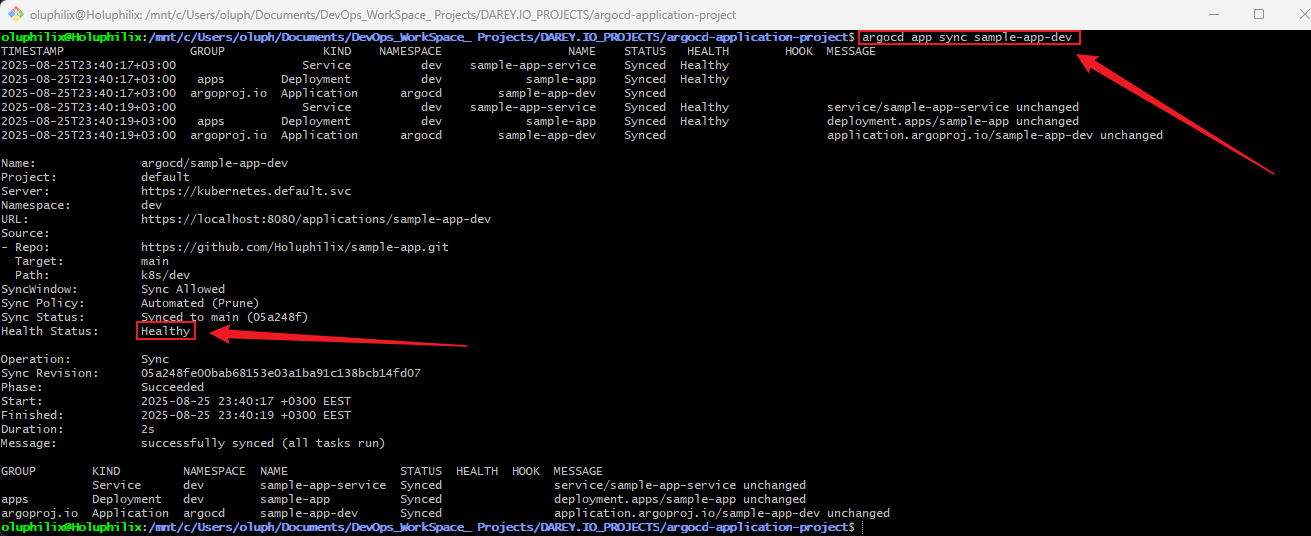
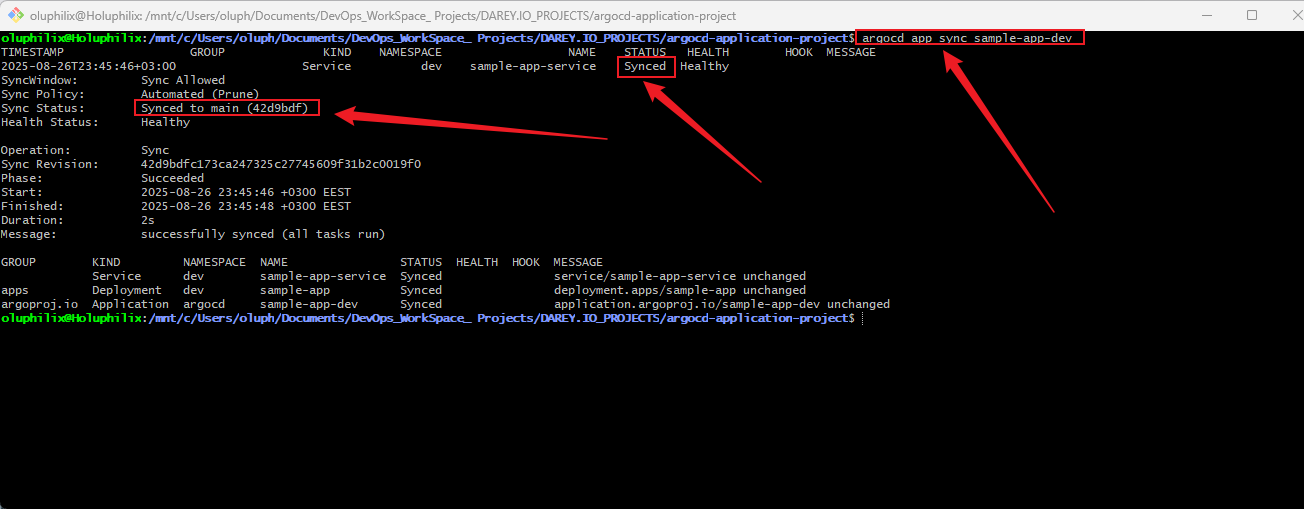
Update Nginx deployment and service manifests for Task 4

diff --git a/README.md b/README.md
@@ -381,10 +381,6 @@ Keeps ArgoCD in sync with Git for proper GitOps workflow.
 * GitHub repository updated with all environment manifests.
 
 
-Got it 👍 I’ll extend your **Task 3** to also include **accessing the Nginx app** after deployment. Here’s the updated version:
-
----
-
 ## **Task 3: Manage Application Lifecycle with ArgoCD**
 
 ### **Objective:**
@@ -499,4 +495,253 @@ Learn how to manage the application lifecycle in ArgoCD, including **syncing**, 
 * Rollback functionality tested and documented.
 * Verified **Nginx app access** via Minikube (NodePort) or cloud (LoadBalancer).
 * Git repository updated with any lifecycle management changes.
+
+Perfect! Let’s define **Task 4** clearly, integrating your updated `deployment.yaml` and `service.yaml` for both **dev** and **prod** environments, and ensuring external access to the Nginx app.
+
+---
+
+## **Task 4: Deploy and Access Nginx Application**
+
+### **Objective:**
+
+Update Kubernetes manifests for dev and prod environments, deploy the Nginx application via ArgoCD, and ensure external access to the app.
+
+---
+
+### **Step 1: Update Deployment Manifest**
+
+**Prod `deployment.yaml`**:
+
+```yaml
+apiVersion: apps/v1
+kind: Deployment
+metadata:
+  name: sample-app
+  labels:
+    app: sample-app
+    environment: prod
+spec:
+  replicas: 3
+  selector:
+    matchLabels:
+      app: sample-app
+  template:
+    metadata:
+      labels:
+        app: sample-app
+        environment: prod
+    spec:
+      containers:
+        - name: sample-app
+          image: nginx:1.27.2-alpine
+          imagePullPolicy: IfNotPresent
+          ports:
+            - containerPort: 80
+          resources:
+            requests:
+              cpu: "100m"
+              memory: "128Mi"
+            limits:
+              cpu: "250m"
+              memory: "256Mi"
+          livenessProbe:
+            httpGet:
+              path: /
+              port: 80
+            initialDelaySeconds: 15
+            periodSeconds: 20
+          readinessProbe:
+            httpGet:
+              path: /
+              port: 80
+            initialDelaySeconds: 5
+            periodSeconds: 10
+  strategy:
+    type: RollingUpdate
+    rollingUpdate:
+      maxSurge: 1
+      maxUnavailable: 1
+```
+
+**Dev `deployment.yaml`** (lighter version):
+
+```yaml
+apiVersion: apps/v1
+kind: Deployment
+metadata:
+  name: sample-app
+  labels:
+    app: sample-app
+    environment: dev
+spec:
+  replicas: 2
+  selector:
+    matchLabels:
+      app: sample-app
+  template:
+    metadata:
+      labels:
+        app: sample-app
+        environment: dev
+    spec:
+      containers:
+        - name: sample-app
+          image: nginx:1.27.2-alpine
+          imagePullPolicy: IfNotPresent
+          ports:
+            - containerPort: 80
+          resources:
+            requests:
+              cpu: "50m"
+              memory: "64Mi"
+            limits:
+              cpu: "150m"
+              memory: "128Mi"
+          livenessProbe:
+            httpGet:
+              path: /
+              port: 80
+            initialDelaySeconds: 10
+            periodSeconds: 15
+          readinessProbe:
+            httpGet:
+              path: /
+              port: 80
+            initialDelaySeconds: 3
+            periodSeconds: 8
+  strategy:
+    type: RollingUpdate
+    rollingUpdate:
+      maxSurge: 1
+      maxUnavailable: 1
+```
+
+---
+
+### **Step 2: Update Service Manifest**
+
+### **Dev `service.yaml`**
+
+```yaml
+apiVersion: v1
+kind: Service
+metadata:
+  name: sample-app-service
+  labels:
+    app: sample-app
+spec:
+  selector:
+    app: sample-app
+  type: NodePort
+  ports:
+    - protocol: TCP
+      port: 80        # internal cluster port
+      targetPort: 80  # container port
+      nodePort: 31139 # already used in your dev cluster
+```
+
+---
+
+### **Prod `service.yaml` (Minikube version)**
+
+```yaml
+apiVersion: v1
+kind: Service
+metadata:
+  name: sample-app-service
+  labels:
+    app: sample-app
+spec:
+  selector:
+    app: sample-app
+  type: NodePort   # Changed from LoadBalancer to NodePort for Minikube
+  ports:
+    - protocol: TCP
+      port: 80
+      targetPort: 80
+      nodePort: 32561 # same as your current prod NodePort
+```
+
+> 💡 You can adjust `nodePort` for dev and prod to different values if running on the same cluster.
+
+---
+
+### **Step 3: Commit and Push Changes**
+
+```bash
+git add k8s/dev/deployment.yaml k8s/dev/service.yaml
+git add k8s/prod/deployment.yaml k8s/prod/service.yaml
+git commit -m "Update Nginx deployment and service manifests for Task 4"
+git push origin main
+```
+
+---
+
+### **Step 4: Sync with ArgoCD**
+
+**Dev environment:**
+
+```bash
+argocd app sync sample-app-dev
+argocd app get sample-app-dev
+```
+
+**Prod environment:**
+
+```bash
+argocd app sync sample-app-prod
+argocd app get sample-app-prod
+```
+
+> Verify both **sync status** and **health status**.
+
+---
+
+### **Step 5: Access the Nginx App**
+
+### **Accessing Nginx**
+
+1. Get Minikube IP:
+
+```bash
+minikube ip
+```
+
+2. Access apps in browser:
+
+* Dev: `http://<minikube-ip>:31139`
+* Prod: `http://<minikube-ip>:32561`
+```
+
+> You should see the default Nginx welcome page.
+
+
+### **Step 6: Verify Pods & Service**
+
+```bash
+kubectl get pods -n dev
+kubectl get pods -n prod
+kubectl get svc -n dev
+kubectl get svc -n prod
+```
+
+* Check that all pods are **Running**.
+* Check that the service exposes the correct **NodePort**.
+
+---
+
+### **Deliverables for Task 4**
+
+* Updated `deployment.yaml` and `service.yaml` files for dev and prod.
+* Applications synced via ArgoCD for both environments.
+* Nginx app accessible externally via NodePort.
+* Verified pod and service statuses.
+* Git repository updated with changes.
+
+Ah! I see exactly what’s happening here. You currently have **different service types** for dev and prod:
+
+* **Dev:** `NodePort` → works fine with Minikube; you can access it externally via `minikube ip:<nodePort>`.
+* **Prod:** `LoadBalancer` → Minikube doesn’t automatically provision external IPs for `LoadBalancer`, so it stays `<pending>`.
+
+> ⚡ **Tip:** Keep NodePort numbers consistent with your current cluster (`kubectl get svc -n dev/prod`) to avoid changing existing endpoints.
 
